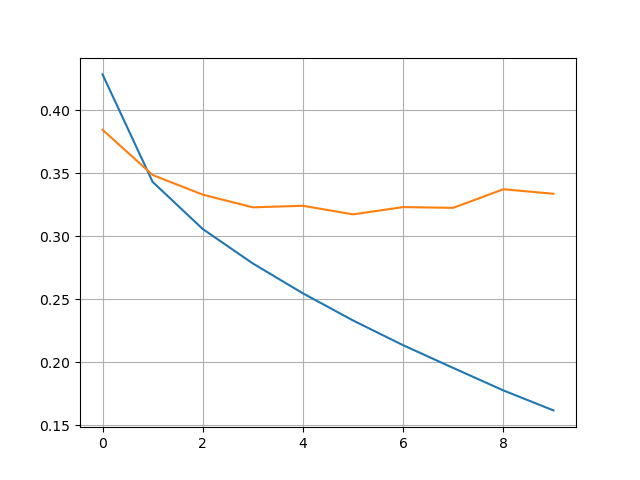
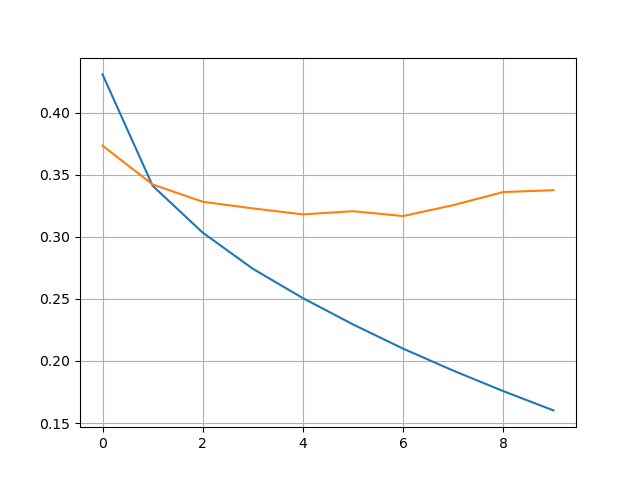
updated graphics, readme and results
results of the correct model added,

diff --git a/sentiment.py b/sentiment.py
@@ -44,12 +44,14 @@ history = model.fit(x_train, y_train, epochs=10, batch_size=128, validation_spli
 
 # plotting loss
 plt.figure()
+plt.title("Loss and Validation Loss while training")
 plt.plot(history.history['loss'])
 plt.plot(history.history['val_loss'])
+plt.legend(["Loss", "Val Loss"], loc = 'best')
 plt.grid()
 
 # predictions
 y_pred = model.predict_classes(x_test)
 
 # accuracy:
-print("Accuracy = ", accuracy_score(y_test, y_pred))
+print("Accuracy = {:.2f}".format(100*accuracy_score(y_test, y_pred)))

diff --git a/README.md b/README.md
@@ -5,3 +5,6 @@ A small attempt to tackle down NLP with the goal of correctly classifying movie 
 
 
 The model used as well as the data pre processing was taken from the book "Deep Learning With Python" by François Chollet
+
+
+The best results as off right now with this network are an accuracy of 87.09%.
